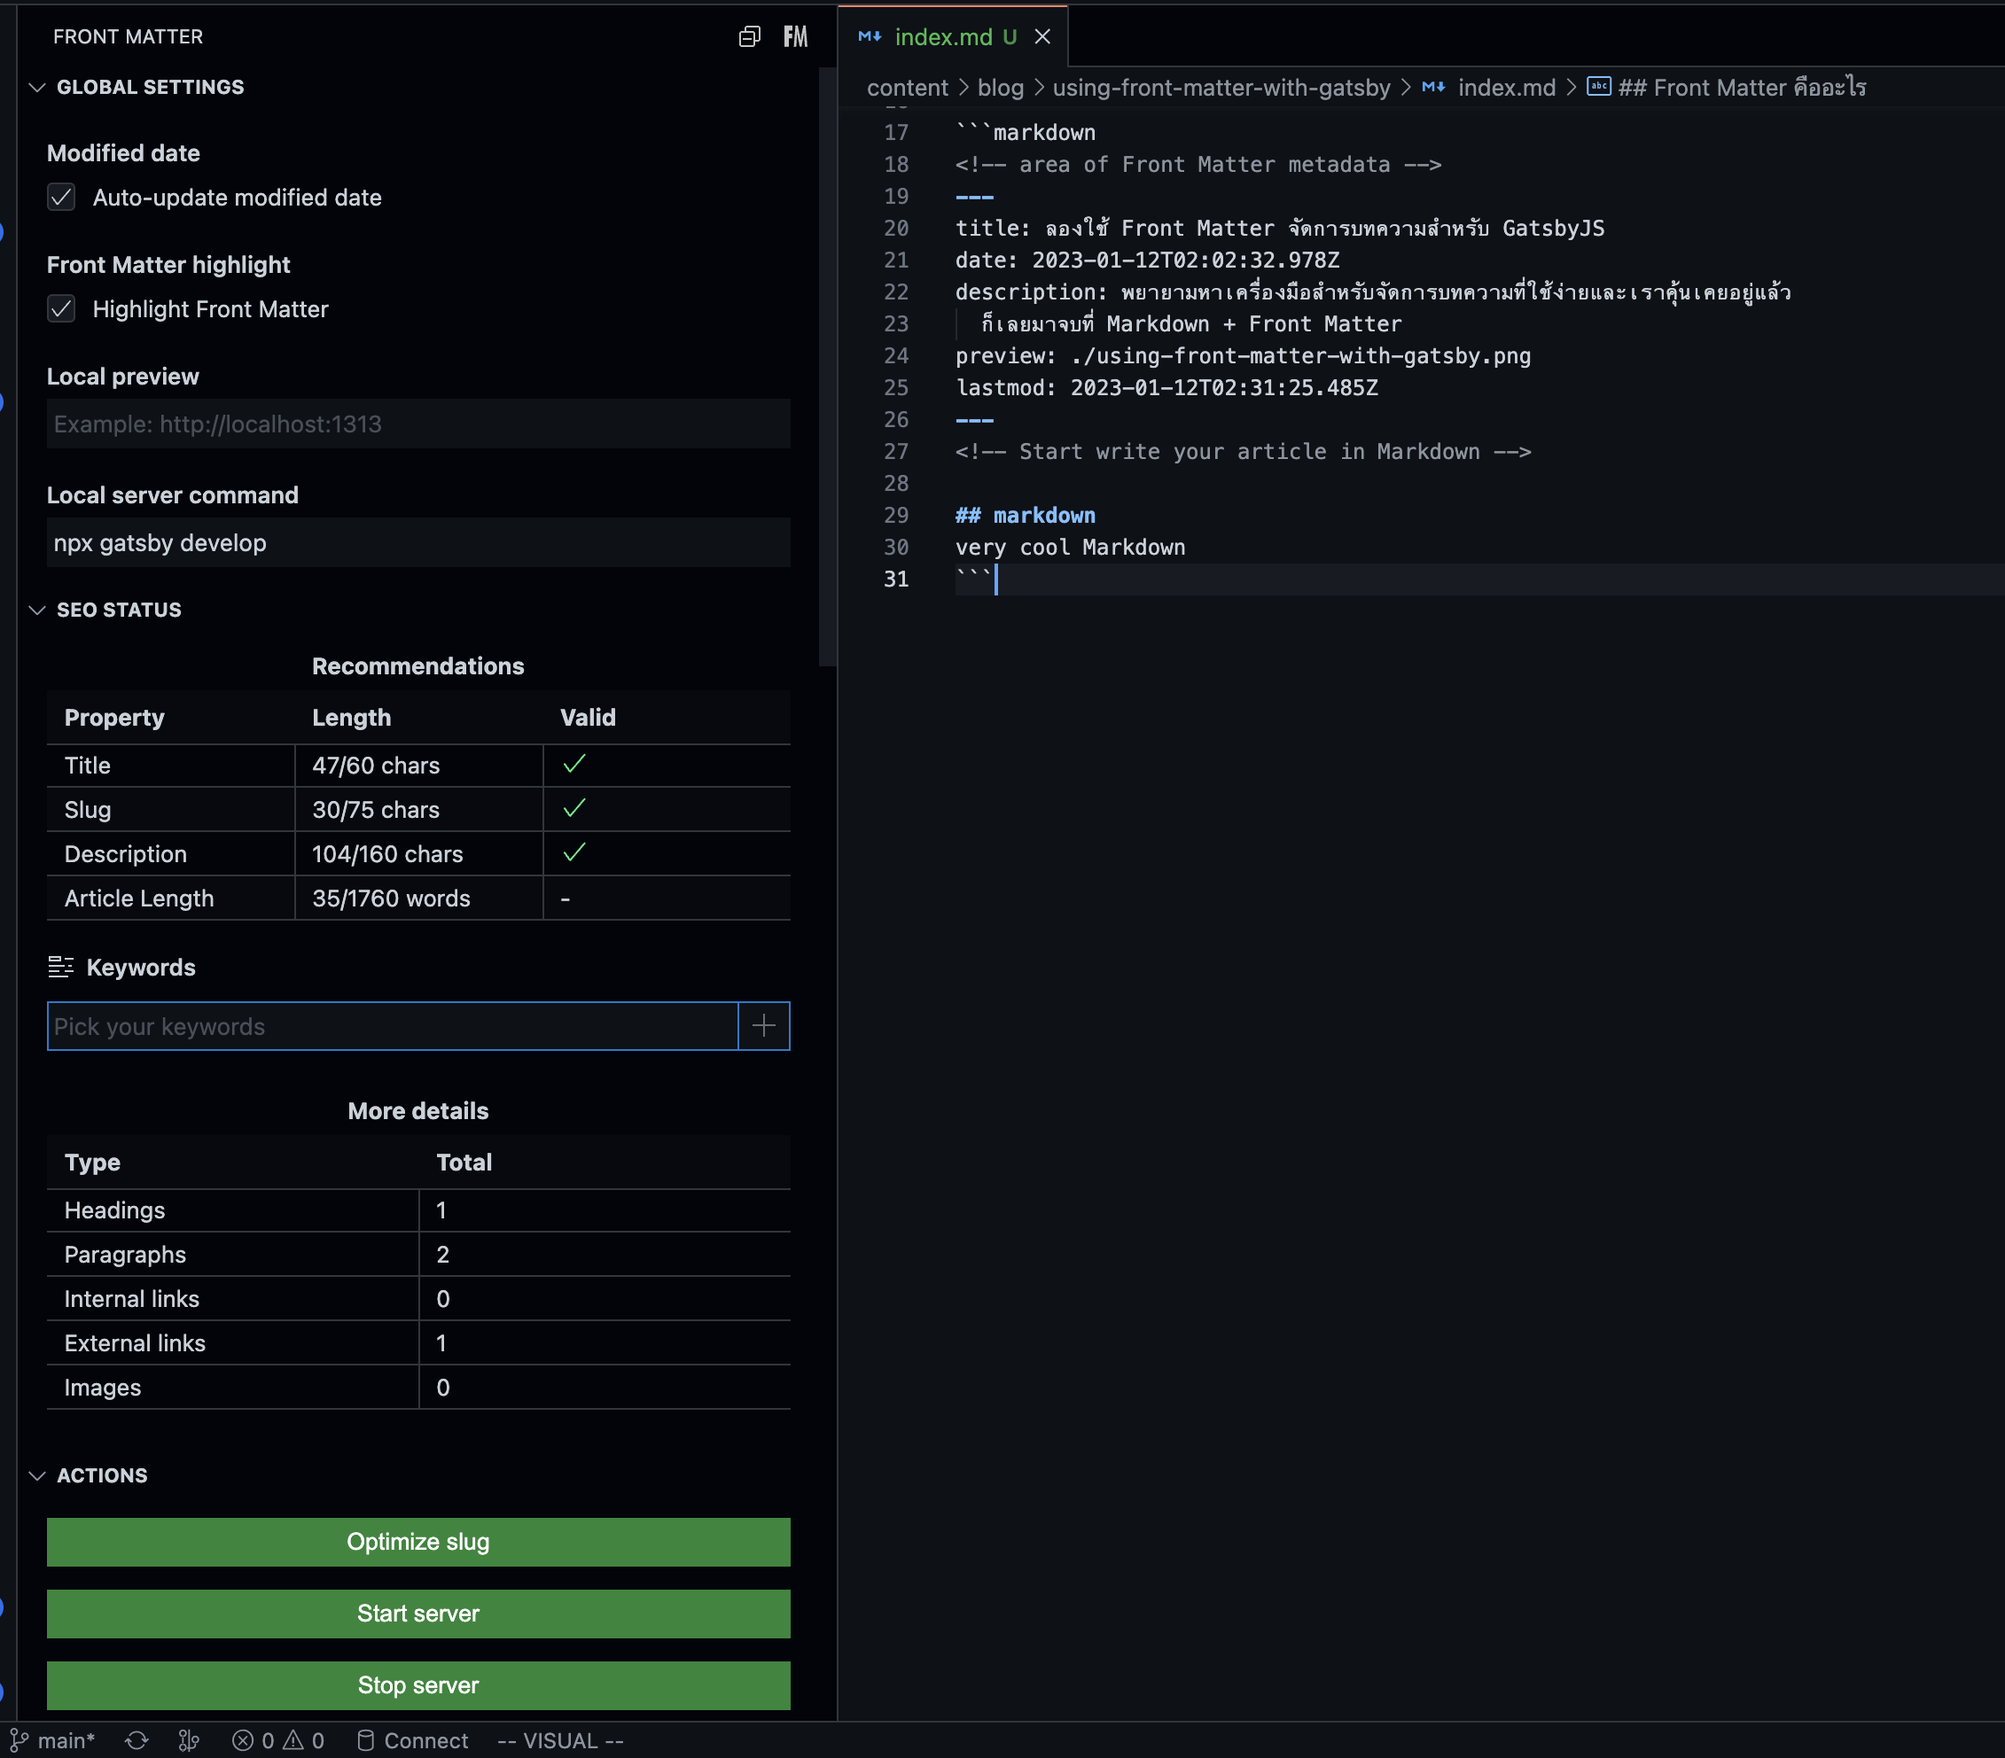
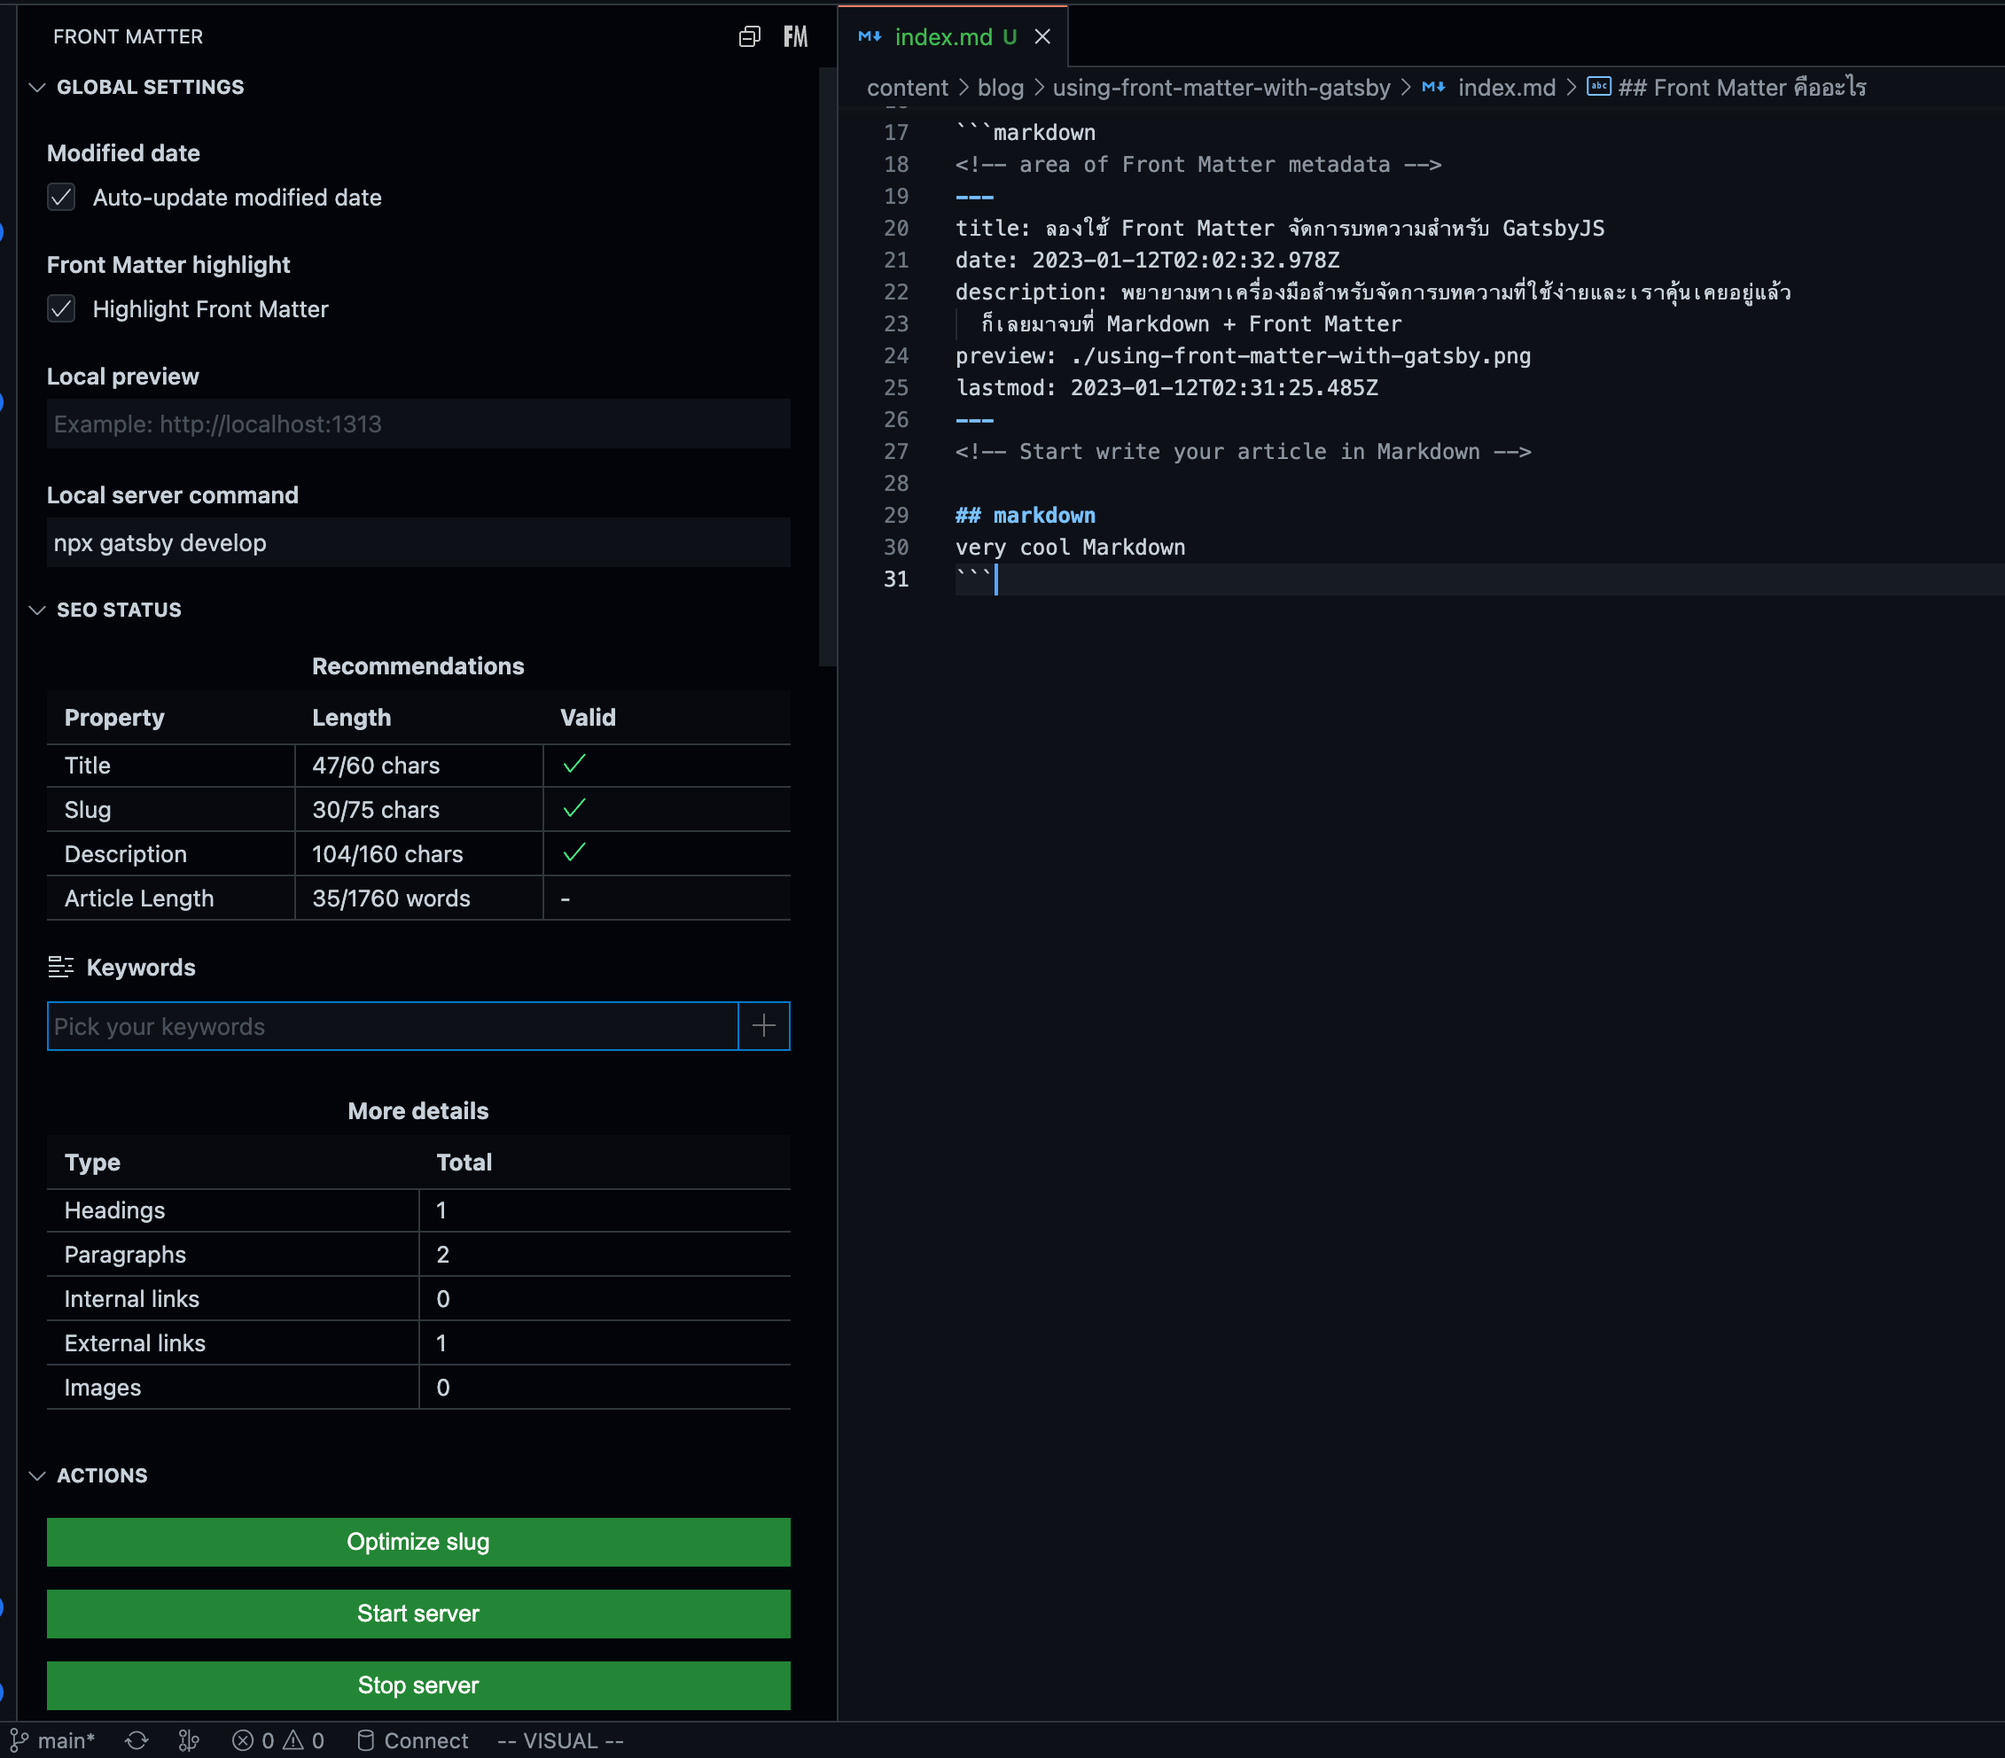
feat: new blog ✨

Changed region(s): [[0.0, 0.8438, 0.4023, 1.0]]

diff --git a/src/style.css b/src/style.css
@@ -4,12 +4,12 @@
 
 html,
 body {
-  min-height: 100vh;
-  height: 100%;
+  min-height: 100vh !important;
+  height: 100% !important;
   background-image: url("./images/bg-image.jpg");
-  background-position: center top;
-  background-attachment: fixed;
-  background-repeat: no-repeat;
+  background-position: center top !important;
+  background-attachment: fixed !important;
+  background-repeat: no-repeat !important;
 }
 #___gatsby,
 #gatsby-focus-wrapper {

diff --git a/src/pages/index.jsx b/src/pages/index.jsx
@@ -2,8 +2,8 @@ import * as React from "react"
 import { Link, graphql } from "gatsby"
 import Layout from "../components/layout"
 import Seo from "../components/seo"
-import Tags from "../components/tags"
 import { GatsbyImage, getImage } from "gatsby-plugin-image"
+import Tags from "../components/tags"
 
 const BlogIndex = ({ data, location }) => {
   const siteTitle = data.site.siteMetadata?.title

diff --git a/src/components/tags.jsx b/src/components/tags.jsx
@@ -1,7 +1,8 @@
 import * as React from "react"
 
 const Tags = ({ tags, className }) => {
-  const tagList = tags?.split(",")?.map(tag => tag.trim()) || [""]
+  // const tagList = tags?.split(",")?.map(tag => tag.trim()) || [""]
+  const tagList = tags || [""]
 
   return (
     <div className={`flex flex-row flex-wrap gap-2 ${className}`}>

diff --git a/content/blog/2023-08-21-save-tons-of-gbs-with-optimizt/index.md b/content/blog/2023-08-21-save-tons-of-gbs-with-optimizt/index.md
@@ -1,0 +1,82 @@
+---
+title: Optimizt บีบอัดไฟล์ก่อนอัพโหลด ช่วยเซฟได้หลาย GBs
+description: กว่า 70% ของ Bandwidth ในการดาวน์โหลดเว็บไซต์ มาจากการโหลดไฟล์รูป มารู้จักเครื่องมือที่ช่วยลดขนาดรูปโดยที่สูญเสียรายละเอียดเพียงเล็กน้อยกัน
+date: 2023-08-21T01:27:13.922Z
+preview: ./optimizt.png
+draft: true
+tags:
+  - optimization
+  - image-compression
+  - performance
+  - web
+categories:
+  - web
+  - optimization
+  - image-compression
+  - performance
+lastmod: 2023-08-21T02:05:58.936Z
+---
+
+## รูปภาพกิน Bandwidth ของ Internet ไปกว่า 70%
+
+ในการใช้งานอินเตอร์เน็ตทุกวันนี้ ส่วนมากเราจะเสพสื่อในรูปแบบของรูปภาพ และ วิดีโอ ซึ่งหลายเว็บไซต์ก็มักจะมีการแสดงผลรูปภาพในแต่ละส่วนของการทำงานแตกต่างกันไป บ้างก็ใช้เป็นภาพเพื่อการตลาด ใช้เป็น Call-to-Action หรืออาจจะใช้เพื่อแสดงสินค้าและบริการ ซึ่งกว่า 70% ของ traffic บนเว็บไซต์เหล่านี้ เกิดจากการโหลดข้อมูลรูปภาพ ดังนั้นการลดขนาดรูปภาพ จึงเท่ากับการลดปริมาณข้อมูลที่ต้องโหลด เป็นการเพิ่มความเร็วให้กับเว็บไซต์เราได้โดยตรง
+
+[ค่าเฉลี่ยของขนาดของเว็บไซต์อยู่ที่ 2MB โดยครึ่งหนึ่งเป็นรูปภาพ](https://web.dev/learn/images/performance-issues/)
+
+## ลดขนาดรูปภาพด้วยการบีบอัด
+
+รูปภาพที่เราเห็นบนเว็บไซต์ส่วนใหญ่มักจะอยู่ในรูปแบบของไฟล์ภาพนามสกุล JPG, PNG, หรือ WEBP สำหรับเว็บยุคใหม่ อาจจะมาจากระบบ CMS ที่แอดมินทำการอัพโหลดรูปภาพขึ้นมา แล้วหน้าเว็บก็ไปดึงข้อมูลที่อยู่รูปภาพจาก CDN มาแสดงผล ในหลายครั้งรูปที่ถูกอัพโหลดขึ้นมาและ serve ให้ผู้ใช้นั้นไม่ได้ทำการบีบอัดรูปภาพ หรือทำการลดขนาดให้เหมาะกับอุปกรณ์มาก่อน ทำให้รูปนั้นอาจจะมีความละเอียดที่มากจนเกินไปสำหรับแสดงผลบนเว็บไซต์ หรือไฟล์ที่ใหญ่มากเกินไปสำหรับการโหลดผ่านเน็ตมือถือหรือ Slow 4G
+
+เทคนิกในการลดขนาดรูปภาพนั้นมีหลายวิธี เช่น การทำ Progressive Image เป็นการทำรูปออกมาหลายๆ ขนาด เพื่อให้แสดงผลได้เหมาะสมสวยงามตามขนาดของอุปกรณ์ วิธีนี้ได้ผลลัพธ์ที่ดีมาก แต่ก็ต้องใช้แรงและทรัพยากรในการทำรูปหลายขนาดให้เหมาะสมและเข้ากับแต่ละหน้าจอ
+
+อีกหนึ่งวิธีที่นิยมและทำได้ง่าย คือการบีบอัดด้วยโปรแกรม เช่น imagemagick, sharp.js, squoosh หรือ Photoshop ก็ทำได้ แต่วันนี้ผมจะแนะนำอีกหนึ่งโปรแกรมที่ใช้งานได้ง่าย สะดวกสำหรับ developer ที่ถนัดการใช้ Command Line นั่นก็คือ [Optimizt](https://github.com/funbox/optimizt) ซึ่งรองรับไฟล์ PNG, JPEG, SVG, และ GIF สามารถ compress and export ออกมาได้ทั้ง WEBP และ AVIF เลย
+
+## วิธีการใช้งาน Optimizt
+
+### ติดตั้ง Optimizt
+
+```sh
+npm i -g @funboxteam/optimizt
+```
+
+### ใช้งาน Optimizt
+
+```sh
+optimizt path/to/picture.jpg
+```
+
+รายละเอียดของ CLI สามารถเข้าไปดูที่ [GitHub](https://github.com/funbox/optimizt) ของทาง Optimizt ได้เลย
+
+### ตัวอย่างการใช้งานของเรา
+
+ก่อนที่เราจะ Deploy บทความใหม่ ถ้าบทความมีการใช้รูปภาพ เราก็จะ compress รูปนั้นก่อน เช่น
+
+```sh
+ls -l
+
+total 408
+drwxr-xr-x  11 anuwong.mon  staff     352 Aug 21 08:30 blog
+-rw-r--r--   1 anuwong.mon  staff  206970 Aug 21 08:30 optimizt.png
+```
+
+จะเห็นว่าไฟล์รูป optimizt.png มีขนาด 206KB ซึ่งเราจะใช้ Optimizt ในการบีบอัดไฟล์นี้
+
+```sh
+optimizt optimizt.png
+
+ℹ Optimizing 1 image (lossy)...
+✔ optimizt.png
+   202.119 KB → 55.206 KB. Ratio: 73%
+
+ℹ Yay! You saved 146.913 KB (73%)
+```
+
+จะเห็นว่าไฟล์ optimizt.png ลดขนาดลงจาก 202KB เหลือเพียง 55KB ซึ่งเป็นการลดขนาดไฟล์ไปถึง 73% และเราจะได้ไฟล์ optimizt.png ที่มีขนาดเล็กลงมาใช้งานแทนไฟล์เดิมได้เลย
+
+![Optimizt Result](./optimizt-result.png)
+
+## Summary
+
+จะเห็นได้ว่าเราสามารถเพิ่มความเร็วให้เว็บไซต์ของเราง่ายๆ เพียงใช้เครื่องมือที่เหมาะสม การเตรียมตัวที่ดี และการทำงานอย่างมีประสิทธิภาพ ซึ่งการลดขนาดรูปภาพก็เป็นหนึ่งในเครื่องมือที่ช่วยให้เราลดปริมาณข้อมูลที่ต้องโหลดลงได้ และเพิ่มความเร็วให้กับเว็บไซต์ของเราได้โดยตรง
+
+ขอให้สนุกกับเขียนโค้ดนะครับ 🤓

diff --git a/content/blog/using-front-matter-with-gatsby/index.md b/content/blog/using-front-matter-with-gatsby/index.md
@@ -1,11 +1,12 @@
 ---
 title: Front Matter - Markdown Articles Management Tool
 date: 2023-01-12T02:02:32.978Z
-description: พยายามหาเครื่องมือสำหรับจัดการบทความที่ใช้ง่ายและเราคุ้นเคยอยู่แล้ว
-  ก็เลยมาจบที่ Markdown + Front Matter
+description: พยายามหาเครื่องมือสำหรับจัดการบทความที่ใช้ง่ายและเราคุ้นเคยอยู่แล้ว ก็เลยมาจบที่ Markdown + Front Matter
 preview: ./using-front-matter-with-gatsby.png
-lastmod: 2023-03-13T13:21:17.695Z
-tags: vscode, extensions
+lastmod: 2023-08-21T02:06:37.171Z
+tags:
+  - vscode
+  - extensions
 ---
 
 พยายามหาเครื่องมือสำหรับจัดการบทความที่ใช้ง่ายและเราคุ้นเคยอยู่แล้ว ก็เลยมาจบที่ Markdown + Front Matter ซึ่งโชคดีมากที่ Gatsby มี Starter Template ที่ Support Markdown อยู่แล้ว ก็เอามาใช้ต่อยอดได้เลยทันที

diff --git a/content/blog/how-to-mock-json-marshal-in-unit-test/index.md b/content/blog/how-to-mock-json-marshal-in-unit-test/index.md
@@ -1,12 +1,13 @@
 ---
 title: Go Testing Part 1 - json.Unmarshal mock ยังไงอะ
-description: เมื่อถึงขั้นตอนทำ Unit Testing จะเจอปัญหาว่า เออเราจะทำยังไงให้ json.Unmarshal
-  มัน error ได้นะ
+description: เมื่อถึงขั้นตอนทำ Unit Testing จะเจอปัญหาว่า เออเราจะทำยังไงให้ json.Unmarshal มัน error ได้นะ
 date: 2023-02-04T08:42:51.220Z
 preview: ../golang.png
 draft: false
-tags: golang,testing
-lastmod: 2023-03-13T12:58:56.496Z
+tags:
+  - golang
+  - testing
+lastmod: 2023-08-21T02:07:10.572Z
 ---
 
 สำหรับการทำงานกับข้อมูลที่เป็น JSON ในภาษา Go แนวทางที่นิยมที่สุดก็คือการใช้ built-in package ที่ชื่อ `json` ในการ Encode / Decode ซึ่งโดยทั่วไปแล้วมักจะทำผ่านฟังก์ชั่น `json.Marshal` และ `json.Unmarshal` นั่นเอง

diff --git a/content/blog/new-blog-for-2023/index.md b/content/blog/new-blog-for-2023/index.md
@@ -2,7 +2,7 @@
 title: เว็บบล็อกใหม่สำหรับปี 2023
 date: 2023-01-12
 draft: true
-lastmod: 2023-02-27T15:21:42.055Z
+lastmod: 2023-08-21T02:06:58.664Z
 ---
 
 นี่คือเว็บบล็อกใหม่สำหรับปี 2023 ที่จะกลับมาเขียนอย่างจริงจัง และจะพยายามอัพเดทอย่างสม่ำเสมอครับ
